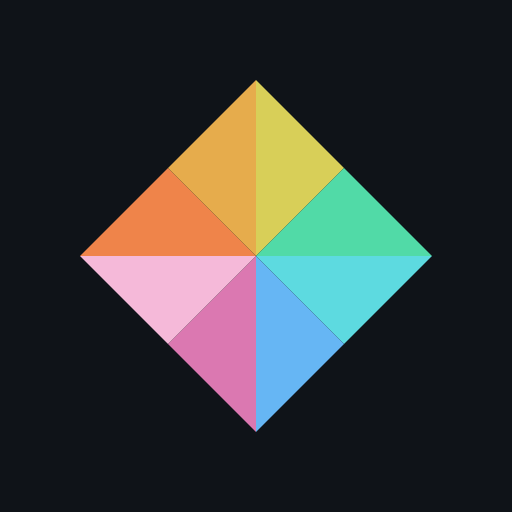
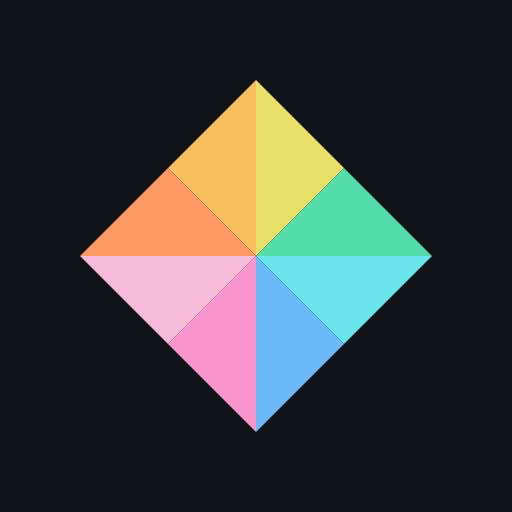
Light-mode diamond: the mark now follows the theme
The gem's facets are the dark palette, which is bright by design -- right on a
near-black ground, washed out on an off-white one. Three fixes, by where the
mark lives:

- the site header inlines the SVG with var(--role) fills, so it tracks the
  page's own variables. That covers the manual toggle as well as the OS
  preference, which an <img> could not.
- mark.svg and favicon.svg now ship both palettes and let
  prefers-color-scheme choose, for the cases loaded as an image.
- the avatar keeps its bg0 tile, so it stays legible wherever it is dropped.

The extension icon is now that tiled version too. It is one PNG serving the
white Marketplace and the dark Open VSX, and after the retune the transparent
variant is visibly washed out on white -- the tile is the only thing that reads
on both, same reasoning as the listing banner.

While checking: assets/icon.png, apple-touch-icon.png and the extension icon
were all still on the pre-retune palette, having drifted silently twice. They
are rendered from the SVGs by gen_preview.py now, fingerprint-stamped like the
previews, and covered by --check.

Changed region(s): [[0.1562, 0.3125, 0.5, 0.8438]]

diff --git a/docs/ideas/index.html b/docs/ideas/index.html
@@ -112,7 +112,7 @@
 </head>
 <body>
 <nav><div class="navwrap">
-  <a class="brand" href="/"><img class="brandmark" src="/mark.svg" alt="" aria-hidden="true" /> datum</a>
+  <a class="brand" href="/"><svg class="brandmark" viewBox="0 0 256 256" aria-hidden="true"><polygon points="128,128 128,40 172,84" fill="var(--yellow)"/><polygon points="128,128 172,84 216,128" fill="var(--green)"/><polygon points="128,128 216,128 172,172" fill="var(--cyan)"/><polygon points="128,128 172,172 128,216" fill="var(--blue)"/><polygon points="128,128 128,216 84,172" fill="var(--purple)"/><polygon points="128,128 84,172 40,128" fill="var(--call)"/><polygon points="128,128 40,128 84,84" fill="var(--red)"/><polygon points="128,128 84,84 128,40" fill="var(--orange)"/></svg> datum</a>
   <span class="spacer"></span>
   <a class="navlink" href="/#palette">Palette</a>
   <a class="navlink" href="/#install">Install</a>

diff --git a/docs/index.html b/docs/index.html
@@ -199,7 +199,7 @@
 </head>
 <body>
 <nav><div class="wrap">
-  <a class="brand" href="/"><img class="brandmark" src="/mark.svg" alt="" aria-hidden="true" /> datum</a>
+  <a class="brand" href="/"><svg class="brandmark" viewBox="0 0 256 256" aria-hidden="true"><polygon points="128,128 128,40 172,84" fill="var(--yellow)"/><polygon points="128,128 172,84 216,128" fill="var(--green)"/><polygon points="128,128 216,128 172,172" fill="var(--cyan)"/><polygon points="128,128 172,172 128,216" fill="var(--blue)"/><polygon points="128,128 128,216 84,172" fill="var(--purple)"/><polygon points="128,128 84,172 40,128" fill="var(--call)"/><polygon points="128,128 40,128 84,84" fill="var(--red)"/><polygon points="128,128 84,84 128,40" fill="var(--orange)"/></svg> datum</a>
   <span class="spacer"></span>
   <a class="navlink" href="#palette">Palette</a>
   <a class="navlink" href="#install">Install</a>

diff --git a/tools/gen_preview.py b/tools/gen_preview.py
@@ -150,12 +150,13 @@ def check():
     """Verify the committed previews were rendered from the current palette."""
     want = fingerprint()
     stale = []
-    for mode in ("dark", "light"):
-        png = os.path.join(ROOT, "docs", "preview-%s.png" % mode)
+    rasters = [os.path.join(ROOT, "docs", "preview-%s.png" % m) for m in ("dark", "light")]
+    rasters += [os.path.join(ROOT, out) for _src, out, _size in ASSETS]
+    for png in rasters:
         got = read_stamp(png) if os.path.exists(png) else None
         if got != want:
-            stale.append("preview-%s.png (stamped %s, palette is %s)"
-                         % (mode, got or "unstamped", want))
+            stale.append("%s (stamped %s, palette is %s)"
+                         % (os.path.relpath(png, ROOT), got or "unstamped", want))
     if stale:
         print("STALE previews -- re-run tools/gen_preview.py on a Mac:")
         for s in stale:
@@ -163,6 +164,39 @@ def check():
         return 1
     print("previews match the current palette (%s)" % want)
     return 0
+
+
+# ---------------------------------------------------------------- raster assets
+# The avatar, the touch icon and the extension icon are PNGs, so they carry a
+# frozen copy of the palette and had silently gone two versions stale. Render
+# them from the SVGs here, on the same Mac-only Chrome path as the previews.
+#   (svg source, output png, pixel size)
+ASSETS = [
+    ("assets/icon.svg", "assets/icon.png", 512),
+    ("assets/icon.svg", "docs/apple-touch-icon.png", 180),
+    ("assets/icon.svg", "ports/vscode/icon.png", 512),
+]
+
+
+def render_assets():
+    for src, out, size in ASSETS:
+        svg = open(os.path.join(ROOT, src)).read()
+        html = ("<!doctype html><meta charset=utf-8><style>html,body{margin:0;"
+                "background:transparent}svg{display:block;width:%dpx;height:%dpx}"
+                "</style>%s" % (size, size, svg))
+        html_path = "/tmp/datum_asset.html"
+        with open(html_path, "w") as fh:
+            fh.write(html)
+        png = os.path.join(ROOT, out)
+        subprocess.run(
+            [CHROME, "--headless", "--disable-gpu", "--hide-scrollbars",
+             "--default-background-color=00000000",
+             "--force-device-scale-factor=1", f"--window-size={size},{size}",
+             "--screenshot=" + png, html_path],
+            check=True, capture_output=True,
+        )
+        stamp(png, fingerprint())
+        print("wrote %s (%d px)" % (out, size))
 
 
 def main():
@@ -188,6 +222,7 @@ def main():
         stamp(png_path, fp)
         print("wrote %s (%d bytes, palette %s)"
               % (os.path.relpath(png_path, ROOT), os.path.getsize(png_path), fp))
+    render_assets()
     return 0
 
 

diff --git a/tools/gen_docs.py b/tools/gen_docs.py
@@ -57,12 +57,13 @@ def _tokens(text):
     return re.sub(r"\{n:'([a-z0-9]+)'.*?\},", entry, text)
 
 
-def _svg(text):
-    """Rewrite the gem's facet fills in document order.
+WEDGES = ["128,128 128,40 172,84", "128,128 172,84 216,128", "128,128 216,128 172,172",
+          "128,128 172,172 128,216", "128,128 128,216 84,172", "128,128 84,172 40,128",
+          "128,128 40,128 84,84", "128,128 84,84 128,40"]
 
-    Some variants (the favicon, the avatar) sit on a bg0 tile and some are
-    transparent, so the background <rect> is matched separately rather than
-    being counted as a facet."""
+
+def _svg_avatar(text):
+    """The avatar sits on its own bg0 tile, so it stays dark wherever it lands."""
     dark = palette("dark")
     text = re.sub(r'(<rect[^>]*?fill=")#[0-9a-fA-F]{6}(")',
                   lambda m: m.group(1) + dark["bg0"]["hex"] + m.group(2), text)
@@ -71,12 +72,34 @@ def _svg(text):
                   lambda m: m.group(1) + dark[next(it)]["hex"] + m.group(2), text)
 
 
+def _svg_themed(_text):
+    """A transparent mark that carries both palettes.
+
+    The dark facets are bright by design, which is what you want against a
+    near-black ground and exactly what you don't want on an off-white one, so
+    the file ships both and lets prefers-color-scheme pick. Used where the mark
+    is loaded as an image (the favicon, anything external) and the page's own
+    theme variables aren't reachable."""
+    d, li = palette("dark"), palette("light")
+    rules = "\n".join(f"    .f{i}{{fill:{d[r]['hex']}}}" for i, r in enumerate(FACETS))
+    light = "\n".join(f"      .f{i}{{fill:{li[r]['hex']}}}" for i, r in enumerate(FACETS))
+    polys = "\n".join(f'  <polygon class="f{i}" points="{w}"/>'
+                      for i, w in enumerate(WEDGES))
+    return (f'<svg viewBox="0 0 256 256" xmlns="http://www.w3.org/2000/svg">\n'
+            f'  <!-- GENERATED by tools/gen_docs.py -- the datum diamond, eight\n'
+            f'       facets, no tile. Carries both palettes so it reads on either\n'
+            f'       ground; edit the palette, not this file. -->\n'
+            f'  <style>\n{rules}\n'
+            f'    @media (prefers-color-scheme: light) {{\n{light}\n    }}\n'
+            f'  </style>\n{polys}\n</svg>\n')
+
+
 TARGETS = {
     "docs/index.html": lambda t: _tokens(_css(t, None)),
     "docs/ideas/index.html": lambda t: _css(t, None),
-    "docs/mark.svg": _svg,
-    "docs/favicon.svg": _svg,
-    "assets/icon.svg": _svg,
+    "docs/mark.svg": _svg_themed,
+    "docs/favicon.svg": _svg_themed,
+    "assets/icon.svg": _svg_avatar,
 }
 
 
